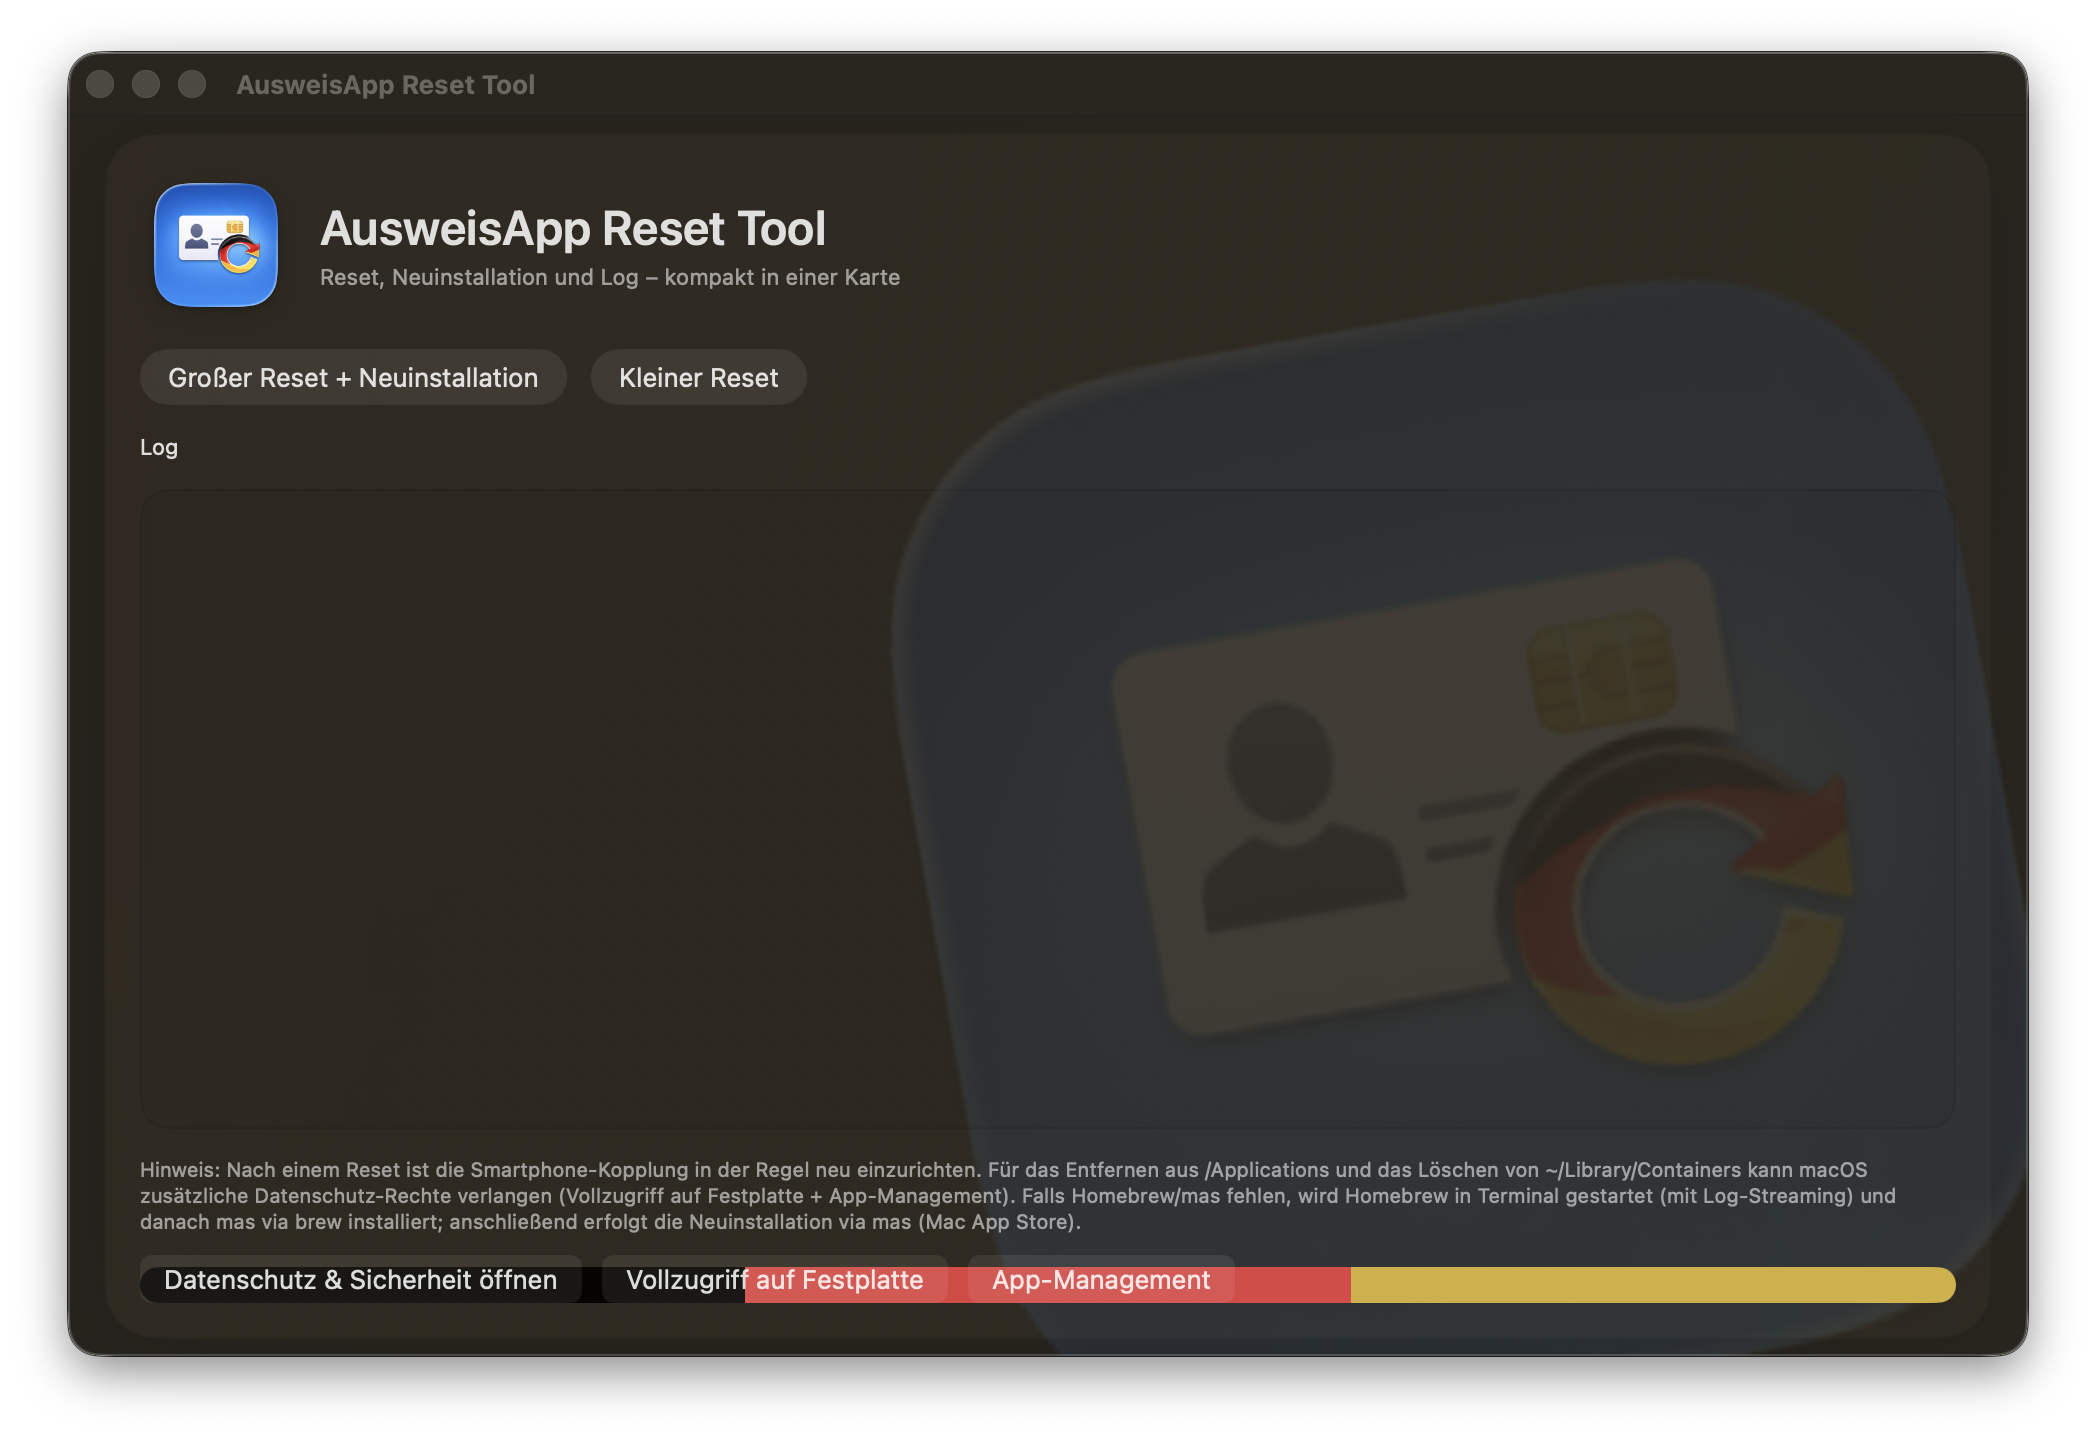
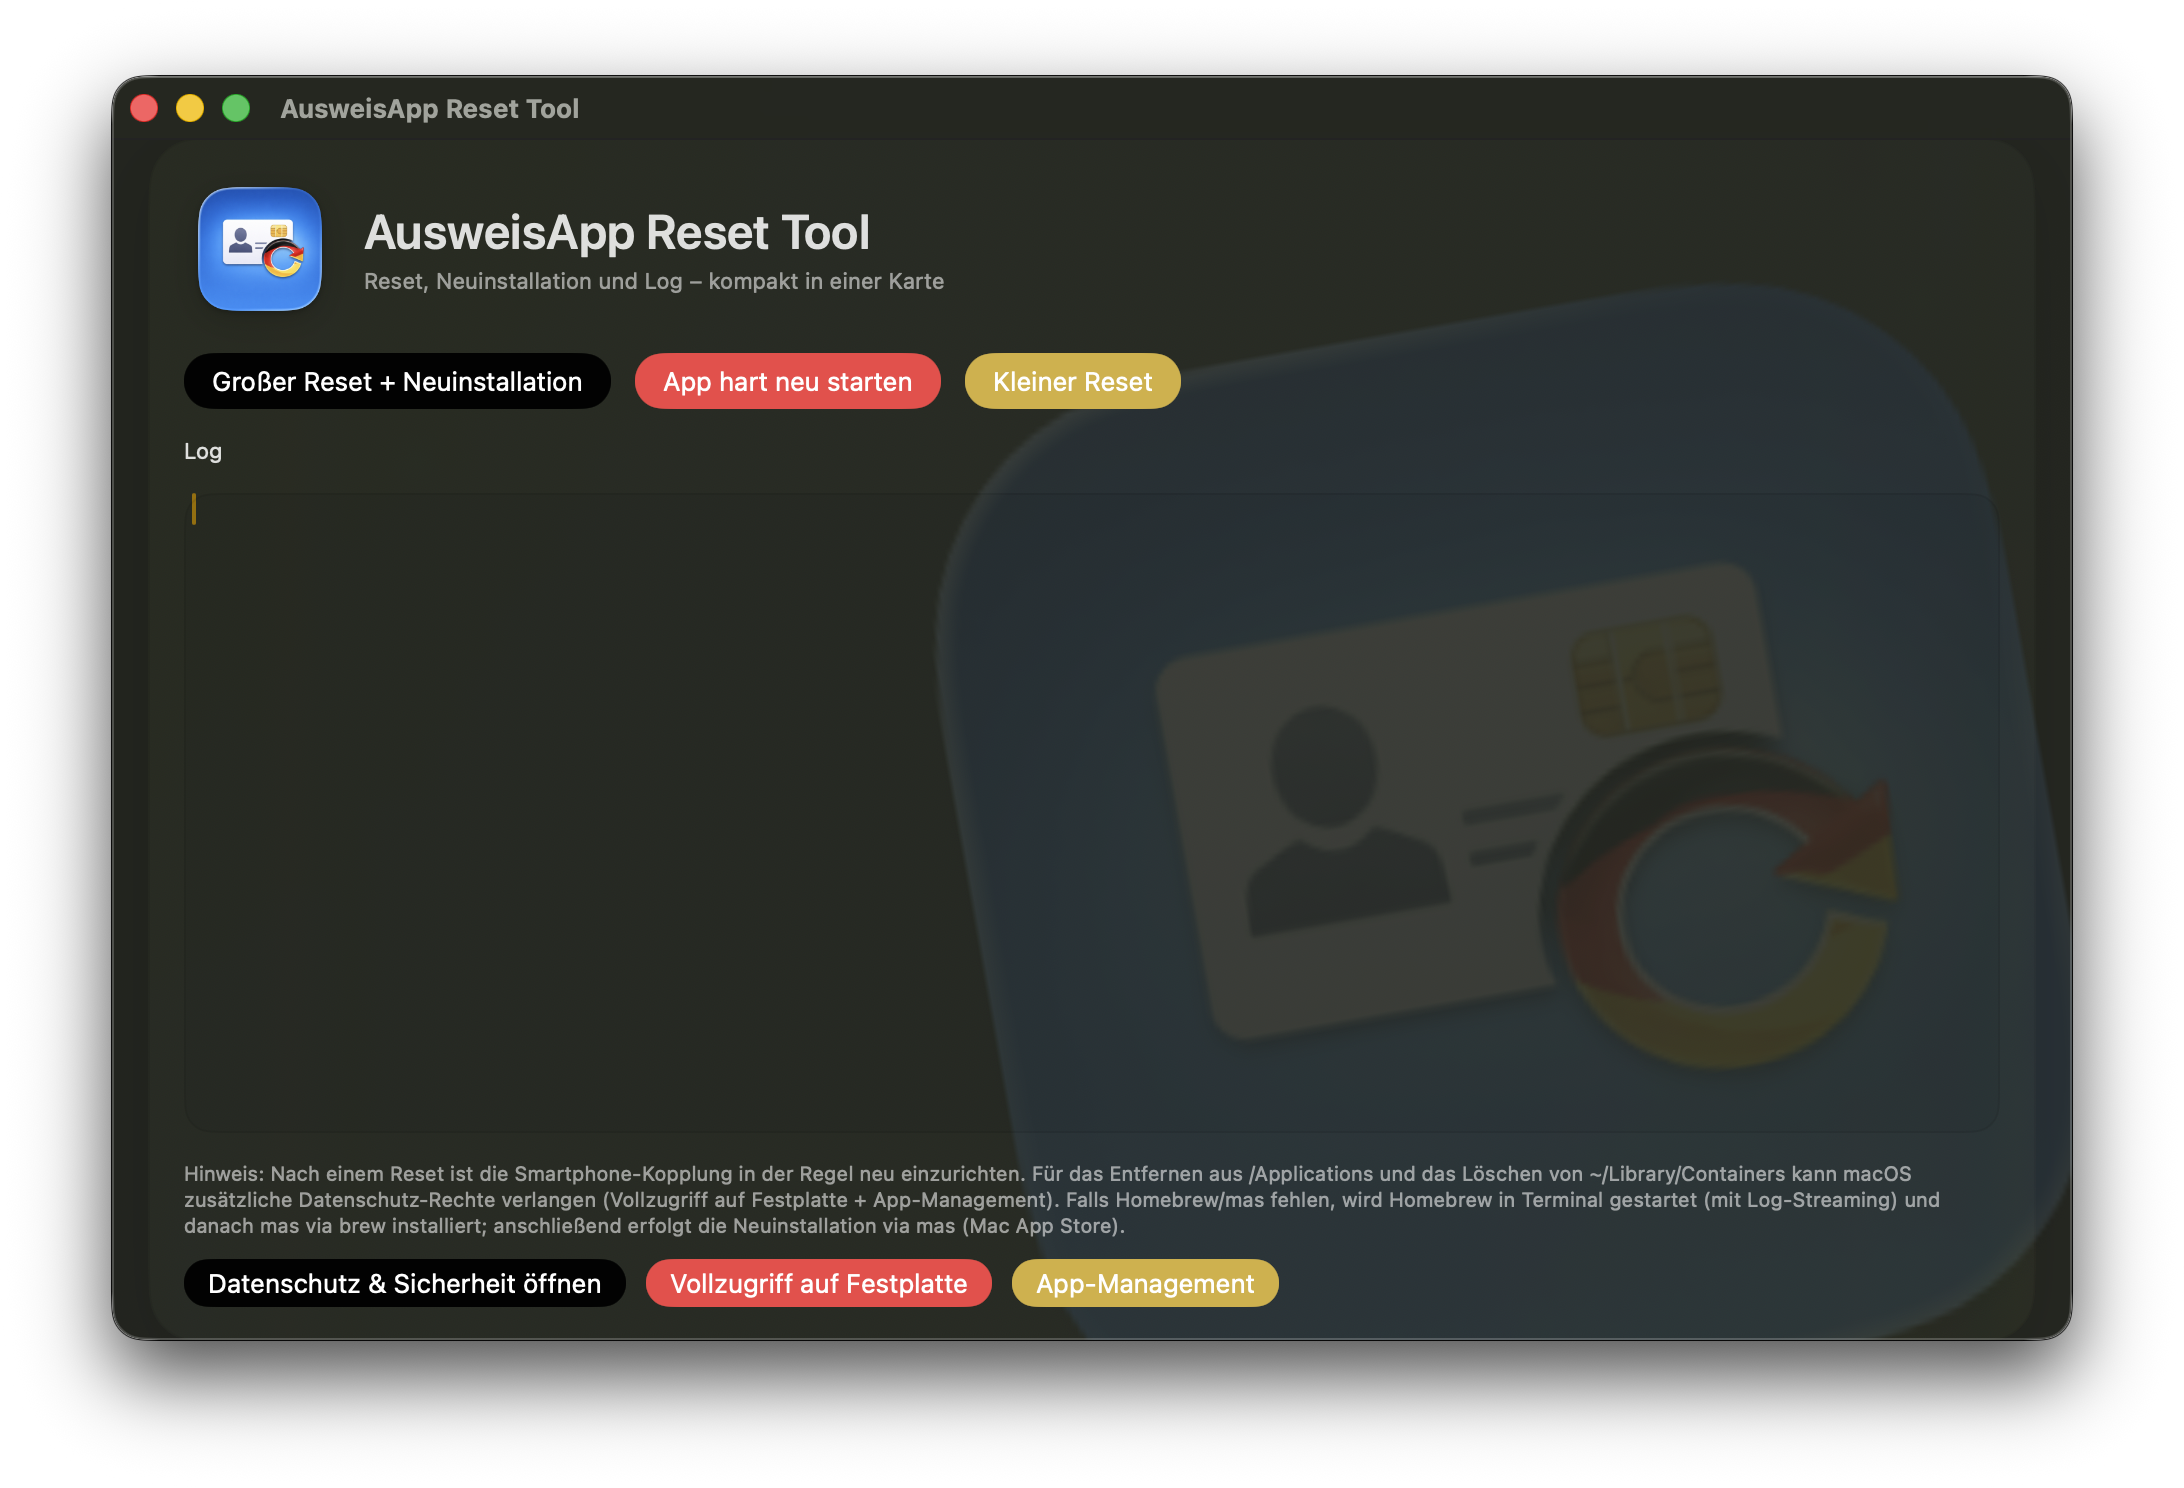
Add restart without data deletion and polish the UI

Changed region(s): [[0.0, 0.0312, 0.9924, 0.9688], [0.7133, 0.5, 0.7753, 0.5625]]

diff --git a/AusweisAppResetTool/ContentView.swift b/AusweisAppResetTool/ContentView.swift
@@ -19,6 +19,32 @@ struct ContentView: View {
     // ISO/IEC 7810 ID-1 (Ausweis/Kreditkarte) aspect ratio
     private let cardAspect: CGFloat = 85.60 / 53.98
 
+    @State private var bottomButtonWidths: [Int: CGFloat] = [:]
+    @State private var bottomButtonRowHeight: CGFloat = 0
+    private let bottomButtonSpacing: CGFloat = 10
+    private let stripeHeight: CGFloat = 16
+
+    private struct ButtonWidthPreferenceKey: PreferenceKey {
+        static var defaultValue: [Int: CGFloat] = [:]
+        static func reduce(value: inout [Int: CGFloat], nextValue: () -> [Int: CGFloat]) {
+            value.merge(nextValue(), uniquingKeysWith: { $1 })
+        }
+    }
+
+    private struct BottomButtonRowHeightPreferenceKey: PreferenceKey {
+        static var defaultValue: CGFloat = 0
+        static func reduce(value: inout CGFloat, nextValue: () -> CGFloat) {
+            value = max(value, nextValue())
+        }
+    }
+
+    private func readWidth(index: Int) -> some View {
+        GeometryReader { proxy in
+            Color.clear
+                .preference(key: ButtonWidthPreferenceKey.self, value: [index: proxy.size.width])
+        }
+    }
+
     private var brandNSImage: NSImage {
         // Optional: if you later add an asset named "BrandIcon" it will be used automatically.
         NSImage(named: "BrandIcon") ?? NSApplication.shared.applicationIconImage
@@ -54,22 +80,7 @@ struct ContentView: View {
                     .offset(x: 210, y: 60)
                     .allowsHitTesting(false)
 
-                // Bottom tricolor stripe (Schwarz–Rot–Gold)
-                VStack(spacing: 0) {
-                    Spacer()
-                    HStack(spacing: 0) {
-                        Rectangle().fill(Color.black.opacity(0.90))
-                        Rectangle().fill(Color.red.opacity(0.85))
-                        Rectangle().fill(Color(red: 0.83, green: 0.69, blue: 0.22)) // #D4AF37
-                    }
-                    .frame(height: 18)
-                    .clipShape(
-                        RoundedRectangle(cornerRadius: 18, style: .continuous)
-                    )
-                    .padding(.horizontal, 18)
-                    .padding(.bottom, 18)
-                }
-                .allowsHitTesting(false)
+
 
                 // Foreground content
                 VStack(alignment: .leading, spacing: 14) {
@@ -95,15 +106,22 @@ struct ContentView: View {
                             Task { await svc.bigResetAndReinstall() }
                         }
                         .buttonStyle(.borderedProminent)
-                        .tint(Color(red: 0.83, green: 0.69, blue: 0.22)) // #D4AF37
+                        .tint(Color.black.opacity(0.85))
                         .controlSize(.large)
                         .keyboardShortcut(.defaultAction)
+
+                        Button("App hart neu starten") {
+                            Task { await svc.hardRestartOnly() }
+                        }
+                        .buttonStyle(.borderedProminent)
+                        .tint(Color.red.opacity(0.85))
+                        .controlSize(.large)
 
                         Button("Kleiner Reset") {
                             Task { await svc.smallReset() }
                         }
                         .buttonStyle(.borderedProminent)
-                        .tint(Color.black.opacity(0.85))
+                        .tint(Color(red: 0.83, green: 0.69, blue: 0.22)) // #D4AF37
                         .controlSize(.large)
                     }
 
@@ -128,26 +146,32 @@ struct ContentView: View {
                             .font(.footnote)
                             .foregroundStyle(.secondary)
 
-                        HStack(spacing: 10) {
+                        HStack(spacing: bottomButtonSpacing) {
                             Button("Datenschutz & Sicherheit öffnen") {
                                 svc.openPrivacySettingsRoot()
                             }
                             .buttonStyle(.borderedProminent)
                             .tint(Color.black.opacity(0.85))
+                            .background(readWidth(index: 0))
 
                             Button("Vollzugriff auf Festplatte") {
                                 svc.openFullDiskAccessSettings()
                             }
                             .buttonStyle(.borderedProminent)
-                            .tint(Color(red: 0.83, green: 0.69, blue: 0.22)) // #D4AF37
+                            .tint(Color.red.opacity(0.85))
+                            .background(readWidth(index: 1))
 
                             Button("App-Management") {
                                 svc.openAppManagementSettings()
                             }
                             .buttonStyle(.borderedProminent)
-                            .tint(Color.red.opacity(0.85))
+                            .tint(Color(red: 0.83, green: 0.69, blue: 0.22)) // #D4AF37
+                            .background(readWidth(index: 2))
                         }
                         .controlSize(.regular)
+                        .buttonBorderShape(.capsule)
+                        .frame(maxWidth: .infinity, alignment: .leading)
+                        .onPreferenceChange(ButtonWidthPreferenceKey.self) { bottomButtonWidths = $0 }
                     }
                 }
                 .padding(18)
@@ -188,6 +212,22 @@ final class AusweisAppResetService: ObservableObject {
     }
 
     // MARK: Public API
+
+    func hardRestartOnly() async {
+        append("== App hart neu starten ==")
+        guard let appURL = findAusweisAppURL() else {
+            append("FEHLER: AusweisApp nicht gefunden.")
+            append("Hinweis: Bitte aus /Applications oder ~/Applications starten und erneut versuchen.")
+            return
+        }
+        append("App gefunden: \(appURL.path)")
+        let bundleId = readBundleId(appURL: appURL) ?? fallbackBundleId
+        append("Bundle-ID: \(bundleId)")
+        await quitAppBestEffort(bundleId: bundleId, appURL: appURL)
+        append("Starte App neu…")
+        openApp(at: appURL)
+        append("Fertig.")
+    }
 
     func smallReset() async {
         append("== Kleiner Reset ==")
